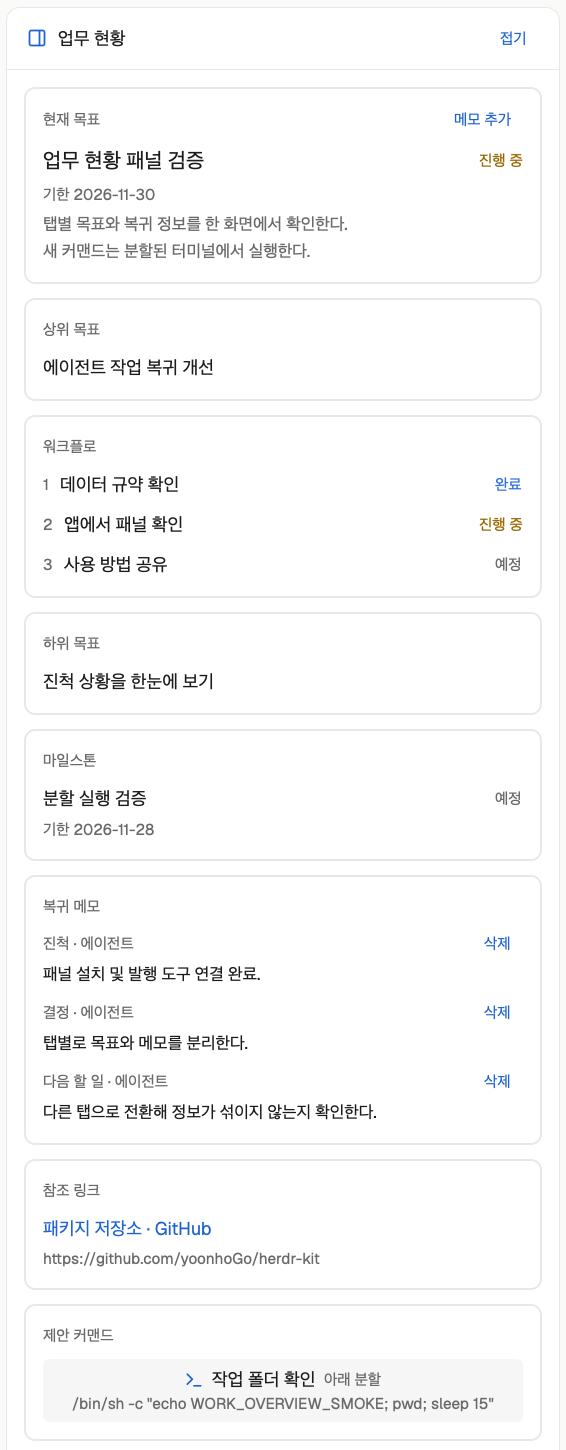
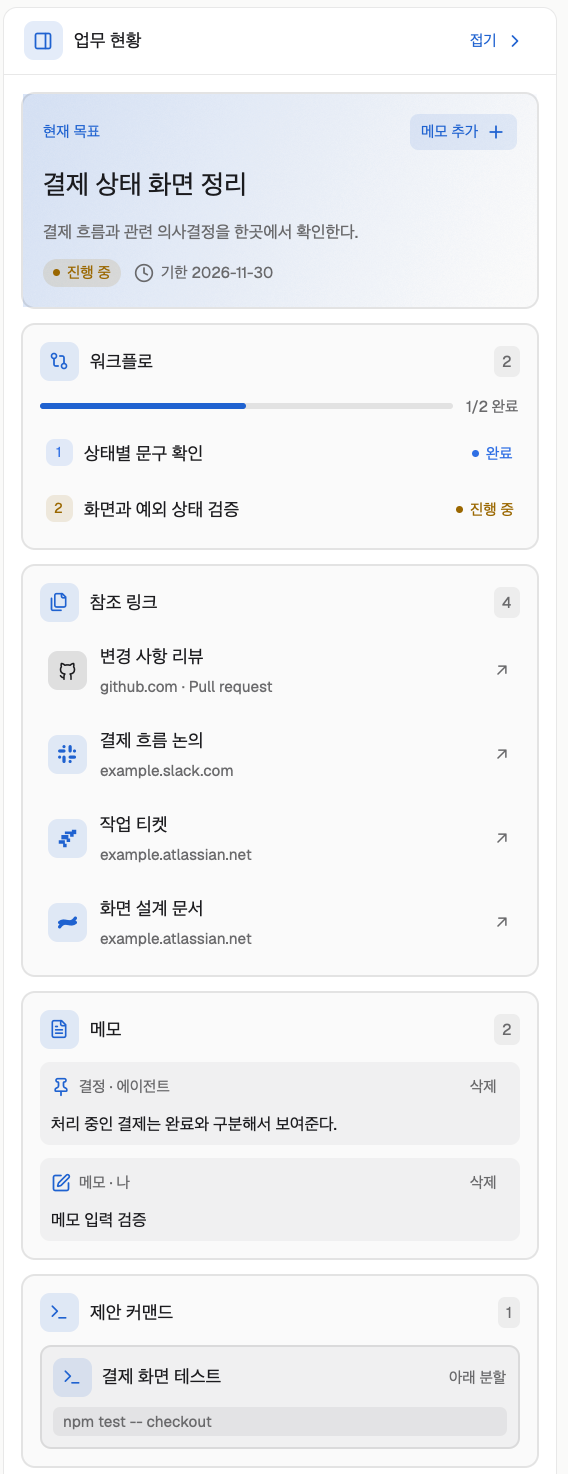
feat: refine Work Overview visual hierarchy
- Give goals, progress, notes, references, and terminal actions distinct visual treatment.
- Use bundled host icons and an inline memo editor without changing the snapshot contract.

diff --git a/work-overview/mods/work-overview/main.js b/work-overview/mods/work-overview/main.js
@@ -1,12 +1,16 @@
-import { View, div, svg } from "gpui-kit";
+import { Background, PathBuilder, View, div, svg } from "gpui-kit";
 import { Button, Link, h_flex, v_flex, Textarea, TextareaState } from "gpui-base";
-import { appHome, checking, focused, layout, nextCommand, notify, panes, props, readTextFile, run, spaces, theme, window, writeTextFile } from "herdr";
+import { appHome, checking, focused, layout, nextCommand, notify, panes, props, readTextFile, run, spaces, theme, window as appWindow, writeTextFile } from "herdr";
 import { BLOCKS, MEMO_KINDS, STATES, changeMemos, parseMemos, parseSnapshot, paths, visibleMemos } from "./model.mjs";
+import { referenceSite } from "./reference.mjs";
 
 const PANEL = "work-overview";
 const ICONS = "mods/workspace-chrome/";
 const activeTab = () => spaces().find((space) => space.active)?.tabs.find((tab) => tab.active) ?? null;
 const stateColors = { planned: "muted", working: "working", blocked: "blocked", done: "done" };
+const sectionIcons = { parents: "layers", subgoals: "git-branch", workflow: "git-compare",
+  milestones: "pin", memos: "file-text", references: "files", commands: "terminal" };
+const noteIcons = { progress: "check", decision: "pin", next: "chevron-right", note: "square-pen" };
 
 function panel(node) {
   if (node?.id === PANEL) return node;
@@ -18,29 +22,71 @@ function panel(node) {
 }
 
 const icon = (name, color) => svg(`${ICONS}${name}.svg`).size(14).flex_none().text_color(color);
+const siteIcon = (name, color) => svg(`mods/work-overview/icons/${name}.svg`).size(15).flex_none().text_color(color);
+function wash(color, opacity) {
+  let hex = /^#([0-9a-f]{3}|[0-9a-f]{6}|[0-9a-f]{8})$/i.exec(color)?.[1];
+  if (!hex) return "#00000000";
+  if (hex.length === 3) hex = Array.from(hex, (c) => c + c).join("");
+  const base = hex.length === 8 ? parseInt(hex.slice(6), 16) : 255;
+  return `#${hex.slice(0, 6)}${Math.round(base * opacity).toString(16).padStart(2, "0")}`;
+}
+
+function glow(t) {
+  const rect = PathBuilder.fill().move_to("0%", "0%").line_to("100%", "0%")
+    .line_to("100%", "100%").line_to("0%", "100%").close().build();
+  return window.paint_path(rect, Background.linear_gradient(140, wash(t.accent, 0.17), wash(t.accent, 0)))
+    .absolute().top(0).left(0).size_full();
+}
 const label = (t, text) => div().text_size(11).font_semibold().text_color(t.muted).child(text);
 const line = (text) => div().min_w(0).text_ellipsis().child(text);
 const paragraph = (text) => v_flex().min_w(0).children(text.split("\n").map((row) =>
   div().min_w(0).whitespace_normal().child(row || "\u00a0")));
-const button = (t, id, title, action) => Button.new(id).flex_none().px(8).py(4).rounded(5)
-  .text_size(11).font_medium().text_color(t.accent).cursor_pointer().hover((s) => s.bg(t.hover))
-  .child(title).on_click(action);
-const card = (t) => v_flex().min_w(0).gap(8).p(12).rounded(8).border_1().border_color(t.border);
+const actionStyle = (el, t) => el.cursor_pointer().hover((s) => s.bg(t.hover)).active((s) => s.bg(t.selected));
+const button = (t, id, title, action) => actionStyle(Button.new(id).flex_none().h(26).px(8).gap(5).rounded(6), t)
+  .text_size(11).font_medium().text_color(t.accent).child(title).on_click(action);
+const card = (t) => v_flex().min_w(0).gap(9).p(12).rounded(10).bg(wash(t.foreground, 0.025)).border_1().border_color(t.border);
+const tile = (t, contents, color = t.accent) => h_flex().size(28).flex_none().items_center().justify_center()
+  .rounded(7).bg(wash(color, 0.12)).child(contents);
+const dot = (color, size = 6) => div().size(size).flex_none().rounded(size).bg(color);
 const tint = (t, status) => t[stateColors[status]] ?? t.muted;
 
-function status(t, state) {
-  return div().flex_none().text_size(11).text_color(tint(t, state)).child(STATES[state]);
+function status(t, state, compact = false) {
+  const color = tint(t, state);
+  const badge = h_flex().flex_none().items_center().gap(5).text_size(11).font_medium().text_color(color)
+    .child(dot(color, 5)).child(STATES[state]);
+  return compact ? badge : badge.px(7).h(20).rounded(10).bg(wash(color, 0.12));
+}
+
+function section(t, kind, count) {
+  return card(t).child(h_flex().items_center().gap(8)
+    .child(tile(t, icon(sectionIcons[kind], t.accent)))
+    .child(div().flex_1().font_semibold().child(BLOCKS[kind]))
+    .child(label(t, String(count)).flex_none().px(6).py(2).rounded(5).bg(wash(t.foreground, 0.06))));
+}
+
+function progress(t, steps, compact = false) {
+  const done = steps.reduce((count, step) => count + (step.status === "done" ? 1 : 0), 0);
+  const color = done === steps.length ? t.done : steps.some((step) => step.status === "blocked") ? t.blocked : t.accent;
+  const track = div().h(compact ? 3 : 4).rounded(3).overflow_hidden().bg(wash(t.foreground, 0.11))
+    .child(div().id("workflow-progress-fill").h_full().w(`${done / steps.length * 100}%`).rounded(3).bg(color).transition("width", 180));
+  if (compact) {
+    return h_flex().flex_none().gap(5).items_center().child(track.w(22)).child(label(t, `${done}/${steps.length}`));
+  }
+  return h_flex().gap(9).items_center().child(track.flex_1()).child(label(t, `${done}/${steps.length} 완료`).flex_none());
 }
 
 function goalRow(t, item, index) {
-  const row = h_flex().min_w(0).items_center().gap(8);
-  if (index !== undefined) row.child(label(t, String(index + 1)).flex_none());
-  row.child(paragraph(item.title).flex_1().font_medium());
-  if (item.status) row.child(status(t, item.status));
-  const body = v_flex().min_w(0).gap(3).child(row);
+  const color = item.status ? tint(t, item.status) : t.muted;
+  const marker = index === undefined ? dot(color, 5) : h_flex().size(19).flex_none().items_center().justify_center()
+    .rounded(6).bg(wash(color, 0.12)).text_color(color).text_size(10).font_semibold().child(String(index + 1));
+  const row = h_flex().min_w(0).items_center().gap(8)
+    .child(paragraph(item.title).flex_1().font_medium());
+  if (item.status) row.child(status(t, item.status, true));
+  const body = v_flex().min_w(0).flex_1().gap(4).child(row);
   if (item.due) body.child(label(t, `기한 ${item.due}`));
   if (item.description) body.child(paragraph(item.description).text_color(t.muted).text_size(12));
-  return body;
+  const bullet = h_flex().w(19).h(19).flex_none().justify_center().items_center().child(marker);
+  return h_flex().items_start().gap(8).px(4).py(5).child(bullet).child(body);
 }
 
 export default class WorkOverview extends View {
@@ -58,7 +104,7 @@ export default class WorkOverview extends View {
     });
     cx.timer.every(1500, (cx) => {
       // Load a newly selected tab even if the window is covered; only pause polling an existing entry.
-      if (window()?.visible !== false || this.entry?.tab !== activeTab()?.id) this.refresh(cx);
+      if (appWindow()?.visible !== false || this.entry?.tab !== activeTab()?.id) this.refresh(cx);
     });
   }
 
@@ -111,6 +157,7 @@ export default class WorkOverview extends View {
     }
     this.clearDraft();
     const input = TextareaState.new({ placeholder: "진척, 결정 사항, 다음 할 일…", rows: 3 });
+    input.on("change", (_e, cx) => cx.notify());
     this.draft = { tab: entry.tab, goal: entry.snapshot.goal.id, input };
     input.focus();
     cx.notify();
@@ -165,53 +212,71 @@ export default class WorkOverview extends View {
     const snapshot = entry?.snapshot;
     const steps = snapshot?.blocks.find((block) => block.type === "workflow")?.items ?? [];
     const goal = snapshot?.goal;
-    const row = Button.new("open-work-overview").h_flex().size_full().min_w(0).px(10).gap(8).items_center()
-      .text_size(11).hover((s) => s.bg(t.hover)).cursor_pointer().on_click(() => this.toggle())
-      .accessibility_label(goal ? `업무 패널 열기: ${goal.title}` : "업무 패널 열기")
-      .child(icon("panel-right", t.accent)).child(line(goal?.title ?? (entry?.error ? "업무 현황 읽기 실패" : "업무 현황")).flex_1());
-    if (goal?.status) row.child(status(t, goal.status));
-    if (steps.length) row.child(label(t, `${steps.filter((step) => step.status === "done").length}/${steps.length}`).flex_none());
+    const title = goal?.title ?? (entry?.error ? "업무 현황 읽기 실패" : "업무 현황");
+    const row = actionStyle(Button.new("open-work-overview").h_flex().size_full().min_w(0).px(10).gap(8).items_center(), t)
+      .text_size(11).on_click(() => this.toggle()).tooltip(title)
+      .accessibility_label(`업무 패널 열기: ${title}`)
+      .child(icon("panel-right", t.accent)).child(line(title).font_semibold().flex_1());
+    if (goal?.status) row.child(status(t, goal.status, true));
+    if (steps.length) row.child(progress(t, steps, true));
     if (goal?.due) row.child(label(t, goal.due).flex_none());
-    else if (!goal && tab) row.child(label(t, entry ? "발행 없음" : "…").flex_none());
+    else if (!goal && tab && !entry) row.child(icon("spinner", t.accent).spin(900));
+    row.child(icon("chevron-right", t.muted));
     return row;
   }
 
-  renderMemo(t, entry, notes, draft) {
-    const section = card(t).child(label(t, BLOCKS.memos));
-    if (!notes.length && !draft) section.child(div().text_size(12).text_color(t.muted).child("남긴 메모가 없습니다."));
+  renderMemo(t, entry, notes) {
+    const list = section(t, "memos", notes.length);
+    if (!notes.length) list.child(div().text_size(12).text_color(t.muted).child("남긴 메모가 없습니다."));
     for (const note of notes) {
-      section.child(v_flex().gap(3)
-        .child(h_flex().items_center().justify_between()
-          .child(label(t, `${MEMO_KINDS[note.kind]} · ${note.source === "local" ? "내 메모" : "에이전트"}`))
-          .child(button(t, `delete-${note.source}-${note.id}`, "삭제", (_e, cx) => this.saveMemo(cx, entry, { remove: note }))))
+      list.child(v_flex().gap(4).px(8).py(5).rounded(7).bg(wash(t.foreground, 0.045))
+        .child(h_flex().items_center().gap(6)
+          .child(icon(noteIcons[note.kind], t.accent))
+          .child(label(t, `${MEMO_KINDS[note.kind]} · ${note.source === "local" ? "나" : "에이전트"}`).flex_1())
+          .child(button(t, `delete-${note.source}-${note.id}`, "삭제", (_e, cx) => this.saveMemo(cx, entry, { remove: note }))
+            .text_color(t.muted).disabled(Boolean(this.saving))))
         .child(paragraph(note.body).text_size(12)));
     }
-    if (draft) {
-      section.child(Textarea.new(draft.input).w_full().px(8).py(5).border_1().border_color(t.border).rounded(5).text_color(t.foreground))
-        .child(h_flex().gap(6)
-          .child(button(t, "save-work-memo", this.saving ? "저장 중…" : "저장", (_e, cx) => this.saveMemo(cx, entry, { add: {
-            id: `user-${Date.now().toString(36)}-${Math.random().toString(36).slice(2)}`,
-            kind: "note", body: draft.input.value(),
-          } })))
-          .child(button(t, "cancel-work-memo", "취소", (_e, cx) => { this.clearDraft(); cx.notify(); })));
-    }
-    return section;
+    return list;
+  }
+
+  renderComposer(t, entry, draft) {
+    const busy = Boolean(this.saving);
+    return card(t).border_color(t.accent)
+      .child(div().font_semibold().child("새 메모"))
+      .child(Textarea.new(draft.input).w_full().px(8).py(5).border_1().border_color(t.border).rounded(6).text_color(t.foreground))
+      .child(h_flex().justify_end().gap(6)
+        .child(button(t, "cancel-work-memo", "취소", (_e, cx) => { this.clearDraft(); cx.notify(); }).text_color(t.muted).disabled(busy))
+        .child(button(t, "save-work-memo", busy ? "저장 중…" : "저장", (_e, cx) => this.saveMemo(cx, entry, { add: {
+          id: `user-${Date.now().toString(36)}-${Math.random().toString(36).slice(2)}`,
+          kind: "note", body: draft.input.value(),
+        } })).bg(wash(t.accent, 0.13)).disabled(busy || !draft.input.value().trim())));
   }
 
   renderBlock(t, block, entry) {
-    const cardBody = card(t).child(label(t, BLOCKS[block.type]));
+    const cardBody = section(t, block.type, block.items.length);
+    if (block.type === "workflow") cardBody.child(progress(t, block.items));
     for (const [i, item] of block.items.entries()) {
       if (block.type === "references") {
-        cardBody.child(Link.new(`reference-${i}`).href(item.url).v_flex().min_w(0).gap(2).cursor_pointer().text_color(t.accent)
-          .hover((s) => s.bg(t.hover))
-          .child(paragraph(item.kind ? `${item.title} · ${item.kind}` : item.title).font_medium())
-          .child(line(item.url).text_color(t.muted).text_size(11)));
+        const site = referenceSite(item.url);
+        const color = site.icon === "github" ? t.foreground : t.accent;
+        cardBody.child(actionStyle(Link.new(`reference-${i}`).href(item.url).h_flex().items_center()
+          .min_w(0).gap(9).px(6).py(5).rounded(7), t).tooltip(item.url)
+          .child(tile(t, siteIcon(site.icon, color), color))
+          .child(v_flex().flex_1().min_w(0).gap(2)
+            .child(line(item.title).font_medium().text_color(t.foreground))
+            .child(line(item.kind ? `${site.host} · ${item.kind}` : site.host).text_size(11).text_color(t.muted)))
+          .child(siteIcon("external", t.muted)));
       } else if (block.type === "commands") {
-        cardBody.child(Button.new(`run-${i}`).v_flex().min_w(0).gap(4).p(8).rounded(5).bg(t.raised)
-          .cursor_pointer().hover((s) => s.bg(t.hover)).on_click(() => this.split(entry, item))
-          .child(h_flex().gap(6).items_center().child(icon("terminal", t.accent))
-            .child(paragraph(item.title).flex_1().font_medium()).child(label(t, item.direction === "right" ? "오른쪽 분할" : "아래 분할").flex_none()))
-          .child(paragraph(item.argv.map((arg) => /^[\w./:@=+-]+$/.test(arg) ? arg : JSON.stringify(arg)).join(" ")).text_color(t.muted).text_size(11)));
+        const argv = item.argv.map((arg) => /^[\w./:@=+-]+$/.test(arg) ? arg : JSON.stringify(arg)).join(" ");
+        cardBody.child(actionStyle(Button.new(`run-${i}`).v_flex().items_start().min_w(0).gap(7).p(8).rounded(8)
+          .bg(wash(t.foreground, 0.045)).border_1().border_color(t.border), t)
+          .on_click(() => this.split(entry, item))
+          .child(h_flex().w_full().gap(7).items_center().child(tile(t, icon("terminal", t.accent)))
+            .child(paragraph(item.title).flex_1().font_medium())
+            .child(label(t, item.direction === "right" ? "오른쪽 분할" : "아래 분할").flex_none()))
+          .child(div().w_full().px(7).py(5).rounded(5).bg(wash(t.foreground, 0.06))
+            .child(paragraph(argv).text_color(t.muted).text_size(11))));
       } else cardBody.child(goalRow(t, item, block.type === "workflow" ? i : undefined));
     }
     return cardBody;
@@ -224,27 +289,40 @@ export default class WorkOverview extends View {
     if (!checking() && tab && !entry) this.refresh(cx);
     if (this.role === "status") return this.renderStrip(t, tab, entry);
 
-    const title = h_flex().flex_none().px(14).h(44).gap(8).items_center().border_b(1).border_color(t.border)
-      .child(icon("panel-right", t.accent)).child(div().font_semibold().flex_1().child("업무 현황"))
-      .child(button(t, "close-work-overview", "접기", () => this.toggle()));
+    const title = h_flex().flex_none().px(14).h(48).gap(8).items_center().border_b(1).border_color(t.border)
+      .child(tile(t, icon("panel-right", t.accent))).child(div().font_semibold().flex_1().child("업무 현황"))
+      .child(button(t, "close-work-overview", "접기", () => this.toggle()).child(icon("chevron-right", t.accent)));
     const body = v_flex().gap(10).p(12);
     if (entry?.snapshot) {
       const { goal, blocks } = entry.snapshot;
       const draft = this.draft?.tab === tab.id && this.draft.goal === goal.id ? this.draft : null;
       const notes = visibleMemos(entry.snapshot, entry.memos);
-      body.child(card(t)
-        .child(h_flex().items_center().justify_between().child(label(t, "현재 목표"))
-          .child(button(t, "add-work-memo", "메모 추가", (_e, cx) => this.beginMemo(cx, entry))))
-        .child(goalRow(t, goal).text_size(15)));
+      const hero = card(t).p(14).relative().overflow_hidden().child(glow(t))
+        .child(h_flex().items_center().justify_between().child(label(t, "현재 목표").text_color(t.accent))
+          .child(button(t, "add-work-memo", "메모 추가", (_e, cx) => this.beginMemo(cx, entry))
+            .bg(wash(t.accent, 0.1)).child(icon("plus", t.accent))))
+        .child(paragraph(goal.title).font_semibold().text_size(19));
+      if (goal.description) hero.child(paragraph(goal.description).text_color(t.muted).text_size(12));
+      if (goal.status || goal.due) {
+        const meta = h_flex().gap(9).items_center();
+        if (goal.status) meta.child(status(t, goal.status));
+        if (goal.due) meta.child(h_flex().gap(5).items_center().child(icon("clock", t.muted)).child(label(t, `기한 ${goal.due}`)));
+        hero.child(meta);
+      }
+      body.child(hero);
+      if (draft) body.child(this.renderComposer(t, entry, draft));
       for (const block of blocks) {
-        if (block.type === "memos") body.child(this.renderMemo(t, entry, notes, draft));
+        if (block.type === "memos") body.child(this.renderMemo(t, entry, notes));
         else if (block.items.length) body.child(this.renderBlock(t, block, entry));
       }
-      if (!blocks.some((block) => block.type === "memos") && (notes.length || draft)) body.child(this.renderMemo(t, entry, notes, draft));
+      if (notes.length && !blocks.some((block) => block.type === "memos")) body.child(this.renderMemo(t, entry, notes));
     } else {
-      body.child(card(t)
+      const loading = tab && !entry;
+      const emblem = icon(loading ? "spinner" : "layers", entry?.error ? t.blocked : t.accent);
+      body.child(card(t).p(16)
+        .child(tile(t, loading ? emblem.spin(900) : emblem))
         .child(div().font_semibold().child(entry?.error ? "업무 현황을 읽을 수 없습니다" : !tab ? "선택한 탭이 없습니다" : entry ? "발행된 목표가 없습니다" : "업무 현황을 읽는 중…"))
-        .child(paragraph(entry?.error ?? (entry ? "이 탭의 에이전트에게 현재 업무를 발행해 달라고 요청하세요." : "")).text_size(12).text_color(t.muted)));
+        .child(paragraph(entry?.error ?? (entry ? "이 탭의 에이전트에게 현재 업무 발행을 요청하세요." : "")).text_size(12).text_color(t.muted)));
     }
     return v_flex().size_full().min_w(0).text_color(t.foreground).text_size(13)
       .child(title).child(div().id(`work-scroll-${tab?.id ?? "empty"}`).flex_1().min_h(0).overflow_y_scrollbar().child(body));

diff --git a/work-overview/RECIPE.md b/work-overview/RECIPE.md
@@ -6,16 +6,17 @@
 
 **What you see:**
 
-- 오른쪽 396px 패널(드래그 범위 280–700px). 상단에 `업무 현황`과 `접기`, 아래에 스크롤 가능한 카드. 첫 카드는 현재 목표의 제목, 선택적인 설명·기한·상태, `메모 추가`를 보여준다.
-- 상위 목표, 하위 목표, 순서가 있는 워크플로, 마일스톤, 복귀 메모, 참조 링크, 제안 커맨드 중 에이전트가 발행한 카드만 이어서 표시한다. 단계 상태는 예정(흐림)·진행 중·막힘·완료를 테마 색과 텍스트로 구별한다.
-- 접힌 상태에서는 하단 오른쪽 360px 칸에 패널 아이콘, 목표 제목, 상태, 완료한 워크플로 단계 수/전체, 기한이 표시된다. 없는 항목은 숨긴다.
+- 오른쪽 396px 패널(드래그 범위 280–700px). 상단에 `업무 현황`과 `접기`, 아래에 스크롤 가능한 카드. 첫 카드는 테마 강조색과 큰 제목으로 현재 목표를 구분하고, 설명·기한·상태와 `메모 추가`를 보여준다.
+- 상위 목표, 하위 목표, 워크플로, 마일스톤, 메모, 참조 링크, 제안 커맨드 중 에이전트가 발행한 카드에 섹션별 아이콘과 항목 수가 붙는다. 워크플로는 번호·상태와 완료 진행 막대를 표시한다.
+- 접힌 상태에서는 하단 오른쪽 360px 칸에 패널 아이콘, 목표 제목, 상태, 완료 단계 수와 미니 진행 막대, 기한이 표시된다. 없는 항목은 숨긴다.
 
 **How it behaves:**
 
 - 하단 요약을 누르면 패널이 열리고, 패널에서 `접기`를 누르면 요약이 돌아온다. 팔레트의 `Work Overview: 업무 패널 여닫기`도 같은 동작이다.
 - 탭을 전환하면 해당 탭의 데이터만 표시한다. 발행된 목표가 없으면 에이전트에게 현재 업무 발행을 요청하라는 안내가 나온다. 앱을 다시 열어도 같은 탭의 발행 내용과 메모는 남는다.
-- `메모 추가`로 텍스트를 저장한다. `삭제`는 내 메모를 지우거나 에이전트 메모를 패널에서 숨긴다. 에이전트가 새 현황을 발행해도 내 메모와 숨김은 같은 목표 ID에 남는다.
-- 링크는 시스템 브라우저에서 연다. 제안 커맨드는 실행 파일과 인자를 먼저 보여준다. 클릭하면 현재 탭에서 포커스한 터미널(없으면 탭의 첫 터미널)을 나누고 그 터미널의 작업 디렉터리에서 지정한 `argv`를 실행한다. 터미널이 없는 탭에서는 실행하지 않는다.
+- `메모 추가`를 누르면 현재 목표 바로 아래에 입력창이 열린다. 빈 메모는 저장할 수 없다. `삭제`는 내 메모를 지우거나 에이전트 메모를 패널에서 숨긴다. 에이전트가 새 현황을 발행해도 내 메모와 숨김은 같은 목표 ID에 남는다.
+- 링크는 제목 아래에 호스트를 표시하고, GitHub·Slack·Jira·Confluence는 번들 아이콘을 쓴다. 다른 호스트는 지구본 아이콘을 쓴다. 외부 파비콘을 내려받지 않으며, 가리키면 전체 URL이 표시되고 누르면 시스템 브라우저에서 연다.
+- 제안 커맨드는 실행 파일·인자와 분할 방향을 먼저 보여준다. 클릭하면 현재 탭에서 포커스한 터미널(없으면 탭의 첫 터미널)을 나누고 그 터미널의 작업 디렉터리에서 지정한 `argv`를 실행한다. 터미널이 없는 탭에서는 실행하지 않는다.
 
 **Built from:**
 
